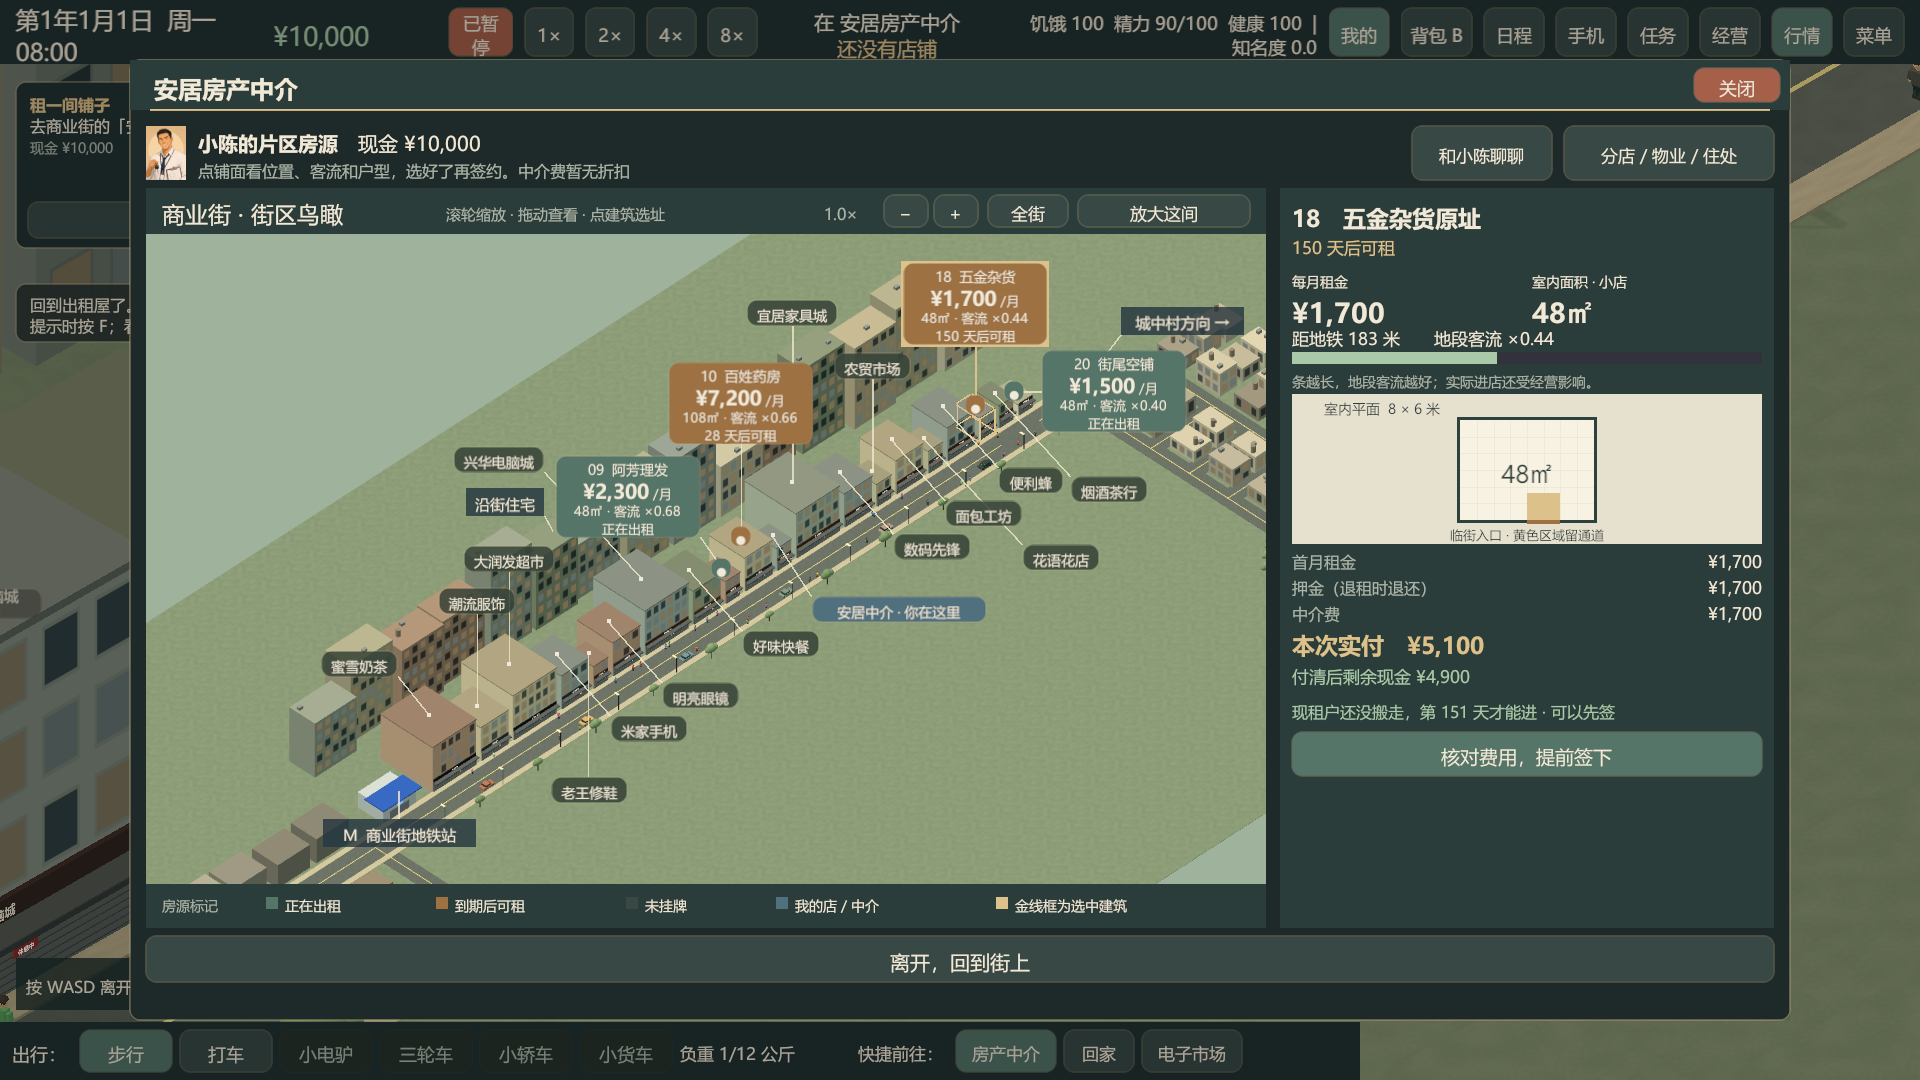
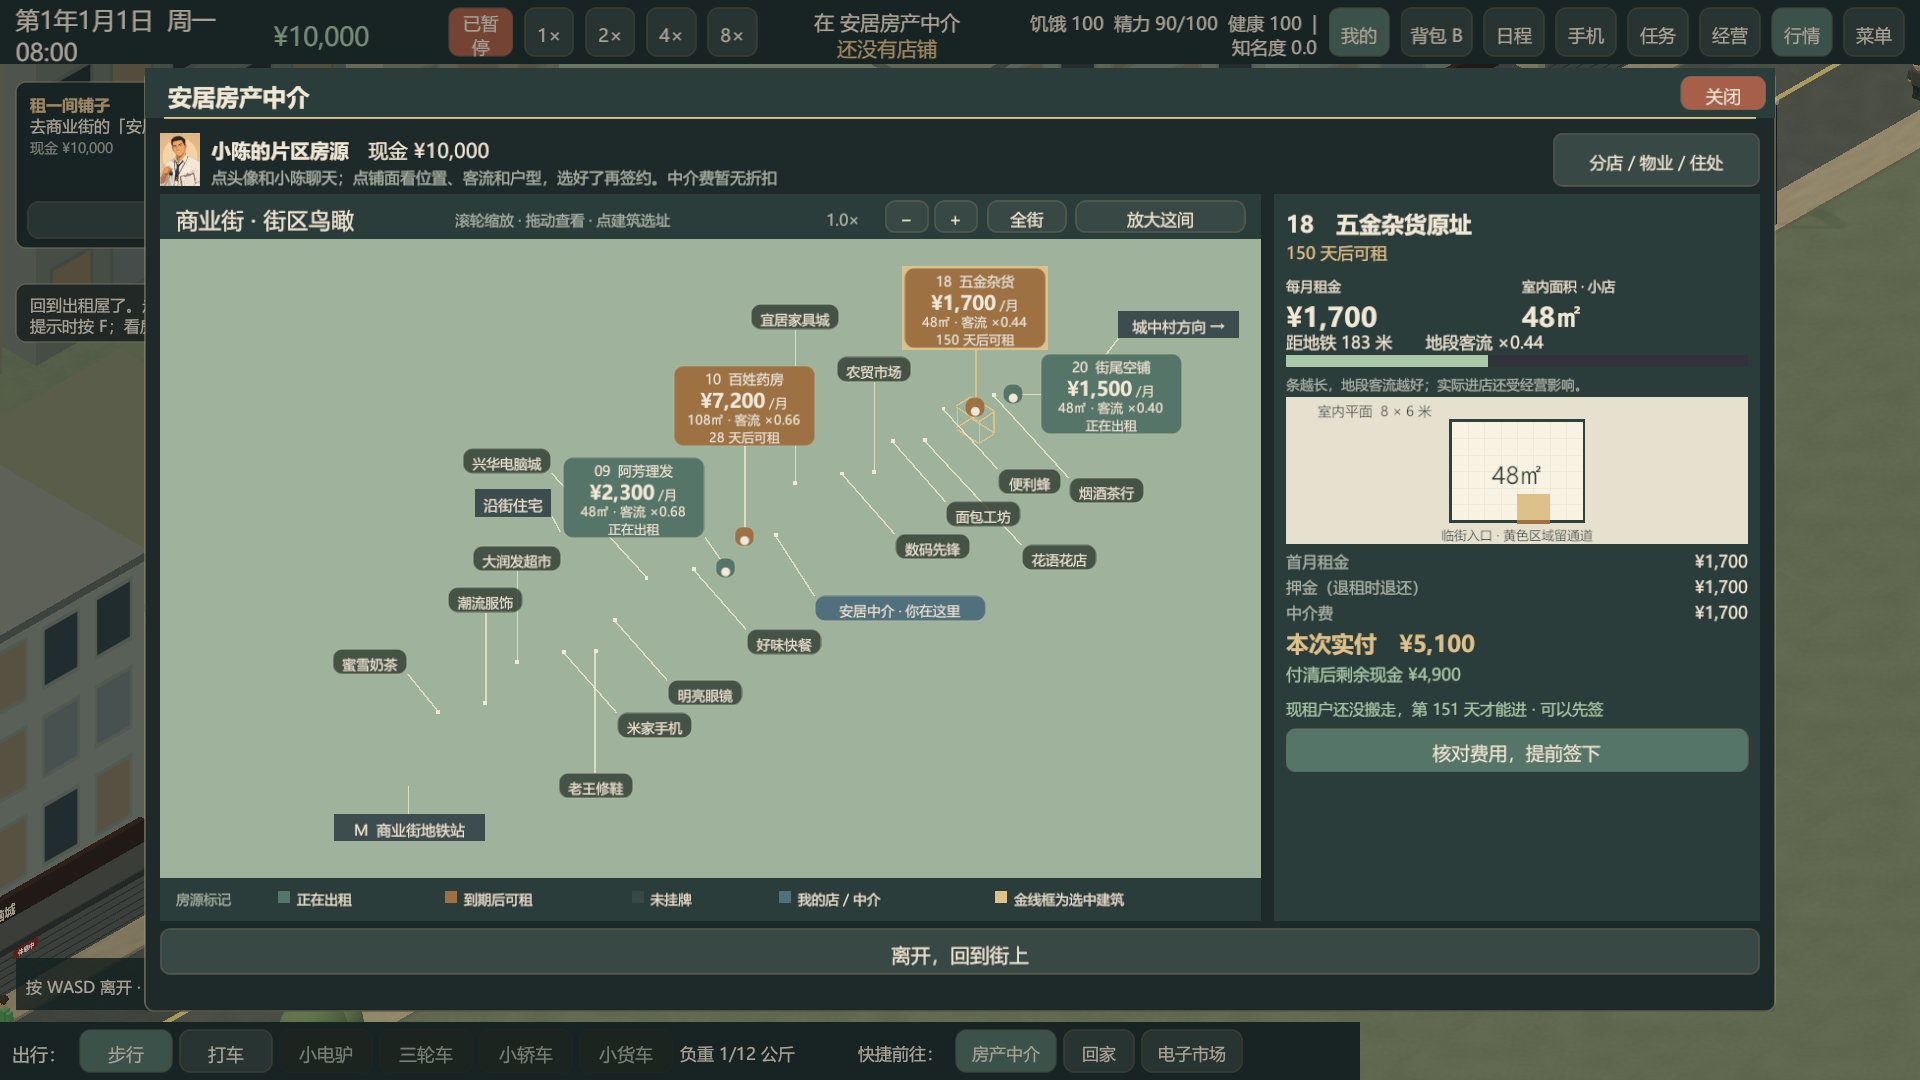
中介窗口去掉“和小陈聊聊”按钮，点头像交谈
头像加悬停提示，说明文字提示点头像聊天；冒烟改为点头像。

diff --git a/Assets/Scripts/Game/UI/GameUi.Agency.cs b/Assets/Scripts/Game/UI/GameUi.Agency.cs
@@ -36,9 +36,9 @@ namespace PCShopSell.Game.UI
             var talk = portrait.gameObject.AddComponent<Button>();
             talk.targetGraphic = image;
             talk.onClick.AddListener(() => OpenGreeterDialogue(agency, w));
+            talk.Tip("和小陈聊聊");
             string discount = S.AgentDiscount > 0 ? $"中介费减免 {S.AgentDiscount * 100:0.#}%" : "中介费暂无折扣";
-            Ui.Size(Ui.Label(header, $"<b>小陈的片区房源</b>　现金 {S.Ledger.Balance}\n<size=16><color=#ABB5A8>点铺面看位置、客流和户型，选好了再签约。{discount}</color></size>", 20), -1, 54, 1);
-            Ui.Size(Ui.Button(header, "和小陈聊聊", () => OpenGreeterDialogue(agency, w), 17), 140);
+            Ui.Size(Ui.Label(header, $"<b>小陈的片区房源</b>　现金 {S.Ledger.Balance}\n<size=16><color=#ABB5A8>点头像和小陈聊天；点铺面看位置、客流和户型，选好了再签约。{discount}</color></size>", 20), -1, 54, 1);
             Ui.Size(Ui.Button(header, "分店 / 物业 / 住处", OpenBusinessPanel, 17), 210);
 
             var body = Ui.Row(w.Content, 740, 14);

diff --git a/Assets/Editor/GameSceneBuilder.cs b/Assets/Editor/GameSceneBuilder.cs
@@ -1627,7 +1627,12 @@ namespace PCShopSell.EditorTools
             _game.Ui.OnEnteredPlace(s.CurrentPlace);
             SmokeAgencySelection(s);
             Shot("vs1_agency_map_720", 1280, 720);
-            ClickGuideButton("和小陈聊聊");
+            Check(GuideButton("和小陈聊聊") == null, "中介窗口没有重复的“和小陈聊聊”按钮，点头像交谈");
+            var portrait = _game.Ui.Canvases.SelectMany(c => c.GetComponentsInChildren<UnityEngine.UI.Button>())
+                .LastOrDefault(b => b.gameObject.activeInHierarchy && b.name == "AgentPortrait");
+            Check(portrait != null, "中介窗口有可点的小陈头像");
+            portrait?.onClick.Invoke();
+            Canvas.ForceUpdateCanvases();
             ClickGuideButton("随便聊聊（8 分钟）");
             ClickGuideButton("继续看房");
             Check(s.AgentDiscount > 0, "地图中的中介交谈保留熟络优惠");
